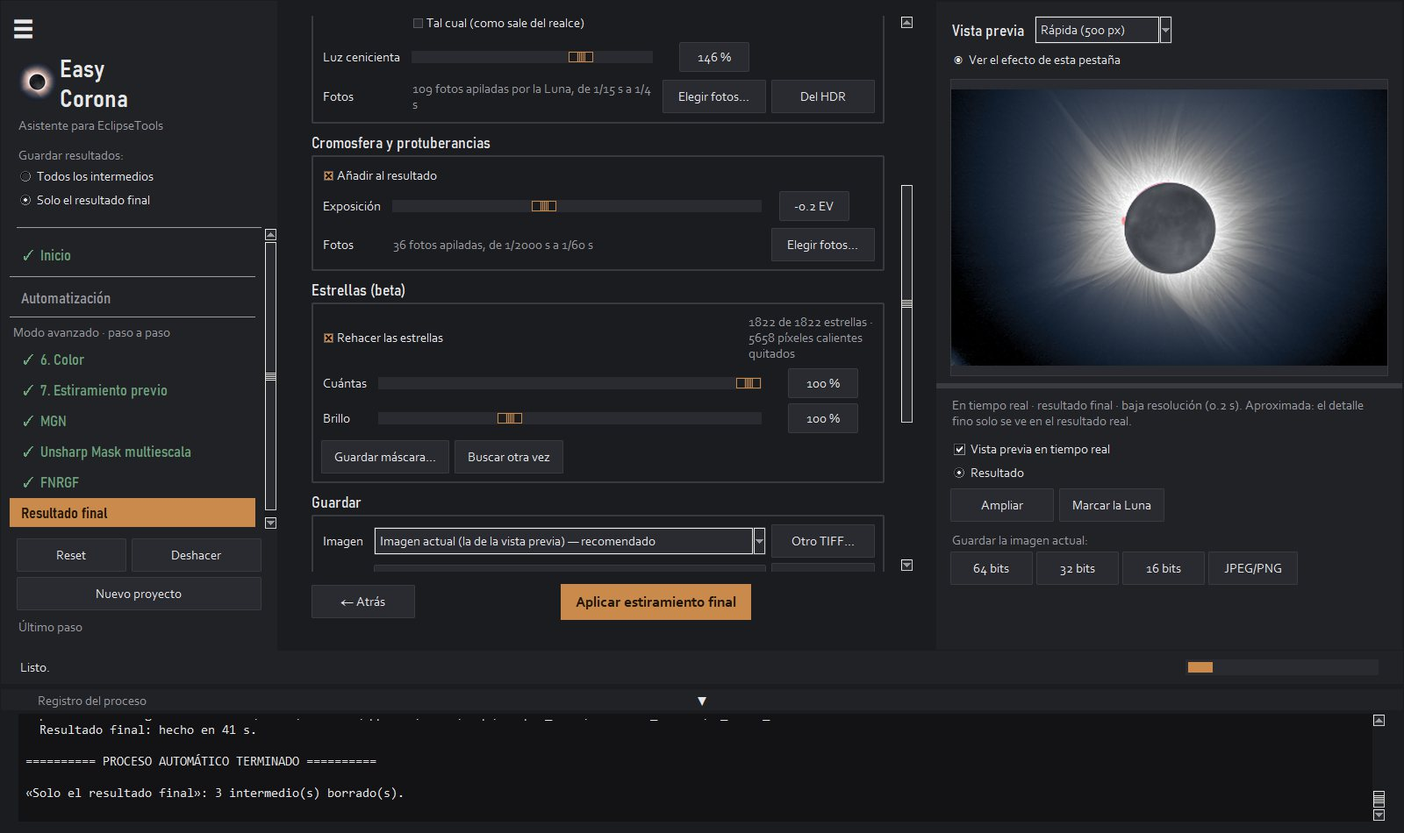
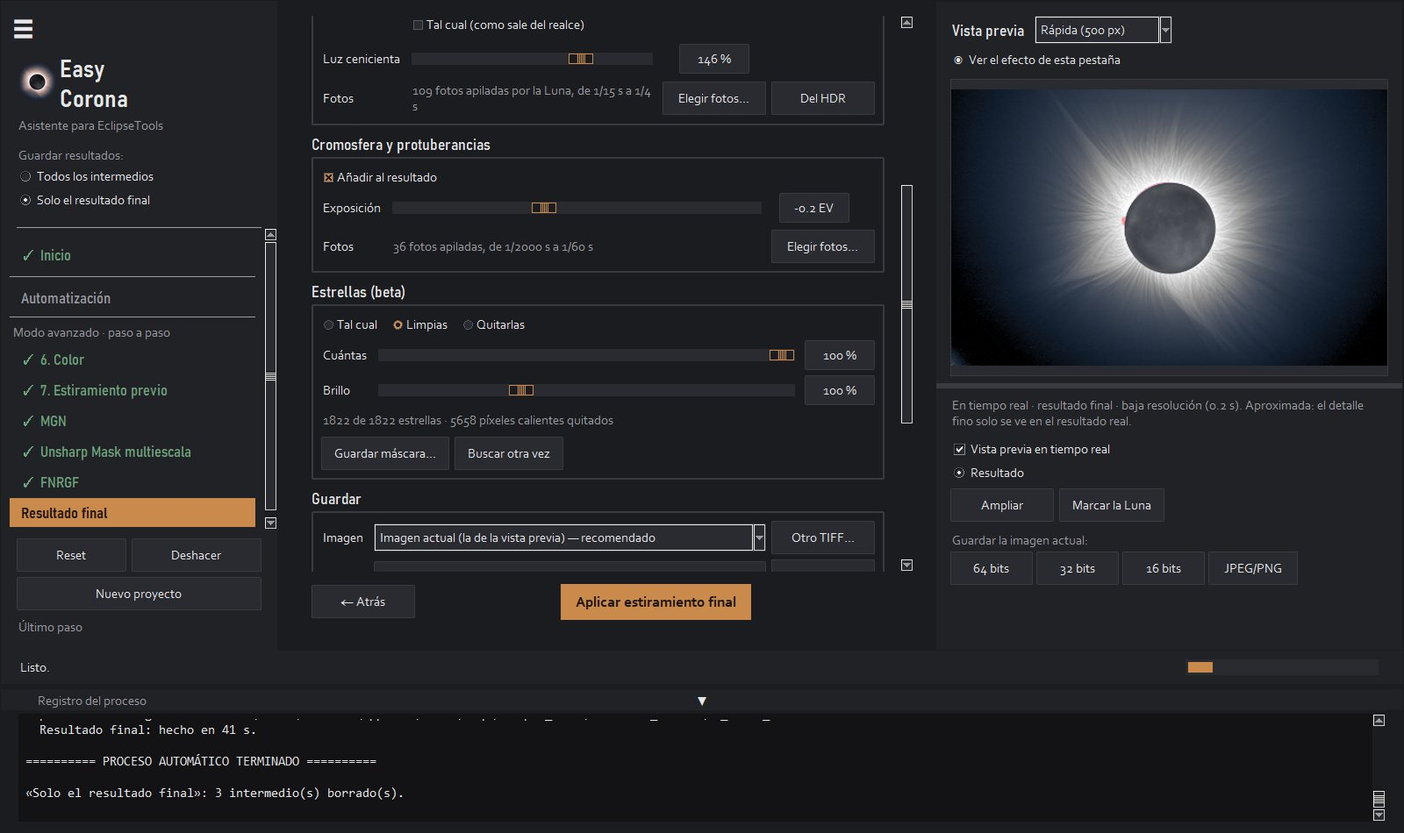
Easy Corona 1.4: quitar las estrellas
- Descargas a la release v1.4 (portada, gracias y actualizar, en español e inglés)
- Novedades de la 1.4 en actualizar/ y en/update/ (las de la 1.3, aparte)
- Tutorial: los tres modos de las estrellas y «Quitar las estrellas», capturas de la 1.4

diff --git a/tutorial/index.html b/tutorial/index.html
@@ -341,7 +341,7 @@
           <li><b>Corona interior</b>: protege la corona junto a la Luna de los filtros (si ahí sale quemado o con puntos oscuros).</li>
           <li><b>Color de la corona</b>: el color real de tu RAW (hace falta un RAW de la sesión junto al HDR); 0 = corona blanca. <b>Cielo azul</b>: el azul de las fotos de eclipse. <b>Cielo más oscuro</b>: el punto negro.</li>
           <li><b>Luna</b>: el gris del disco («tal cual» = como sale del realce). <b>Luz cenicienta</b>: los mares de la Luna. <b>Protuberancias</b>: la exposición de la cromosfera.</li>
-          <li><b>Estrellas</b> <span class="beta">beta</span>: al moverlo, la app busca las estrellas en el HDR, las quita del resultado con el anillo oscuro que les dejan los filtros (y también los píxeles calientes) y las vuelve a poner limpias con ese brillo. <b>Cuántas</b>: de las más brillantes a las más débiles. <span class="ui">Guardar máscara de estrellas…</span> guarda su máscara para otros programas.</li>
+          <li><b>Estrellas</b> <span class="beta">beta</span>: al moverlo, la app busca las estrellas en el HDR, las quita del resultado con el anillo oscuro que les dejan los filtros (y también los píxeles calientes) y las vuelve a poner limpias con ese brillo. <b>Cuántas</b>: de las más brillantes a las más débiles. <span class="ui">Quitar las estrellas</span>: para un cielo limpio, las quita casi todas, también las débiles, sin volver a poner ninguna. <span class="ui">Guardar máscara de estrellas…</span> guarda su máscara para otros programas.</li>
         </ul>
         <p><span class="ui">Ejecutar el proceso</span> hace todo el realce y guarda el resultado. Si después solo cambias algo del resultado final (brillo, cielo, Luna, cromosfera o estrellas), se rehace solo ese paso, en segundos. <span class="ui">Valores recomendados</span> vuelve a los de partida.</p>
       </div>
@@ -395,7 +395,7 @@
           <li><b>Color del cielo</b>: el azul y su tono.</li>
           <li><b>Luna</b>: su gris o «tal cual»; la <b>luz cenicienta</b> y de dónde sale: tus fotos largas (<span class="ui">Elegir fotos…</span>, de cualquier carpeta) o el propio HDR (<span class="ui">Del HDR</span>, solo si de verdad se ven los mares).</li>
           <li><b>Cromosfera y protuberancias</b>: las fotos rápidas se apilan aparte, borrando la Luna de cada una, y se añaden al final, nítidas y con una sola Luna. <span class="ui">Exposición</span> las hace más claras u oscuras.</li>
-          <li><b>Estrellas</b> <span class="beta">beta</span>: <span class="ui">Rehacer las estrellas</span>, <span class="ui">Cuántas</span>, <span class="ui">Brillo</span>, <span class="ui">Guardar máscara…</span> (un TIFF de 16 bits del tamaño del resultado; blanco = estrella con su halo) y <span class="ui">Buscar otra vez</span>. Los píxeles calientes que quedaron en el apilado (puntos rojos o azules) se quitan también.</li>
+          <li><b>Estrellas</b> <span class="beta">beta</span>: tres modos. <span class="ui">Tal cual</span>: como salen del realce. <span class="ui">Limpias</span>: las quita con el anillo oscuro que les dejan los filtros y las vuelve a poner limpias, con <span class="ui">Cuántas</span> y <span class="ui">Brillo</span>. <span class="ui">Quitarlas</span>: un cielo limpio, sin volver a poner ninguna (quita también las débiles y la mayoría de las deformadas; lo que no se distingue de la corona se queda). Además, <span class="ui">Guardar máscara…</span> (un TIFF de 16 bits del tamaño del resultado; blanco = estrella con su halo) y <span class="ui">Buscar otra vez</span>. Los píxeles calientes que quedaron en el apilado (puntos rojos o azules) se quitan también.</li>
           <li><b>Guardar</b>: la imagen de entrada, la carpeta y el nombre; <span class="ui">Exportar PNG/JPEG para compartir</span>.</li>
         </ul>
       </div>
@@ -443,7 +443,7 @@
           <li>Si junto a la Luna sale quemado o con puntos oscuros, sube <b>Corona interior</b>.</li>
           <li>Si la Luna sale mal colocada o con un anillo, usa <span class="ui">Marcar la Luna</span>.</li>
           <li>Para retocar en otro programa, usa el <b>TIFF de 16 bits</b>: el de 32 bits es lineal y muchos programas lo tratan como HDR.</li>
-          <li>Las estrellas son una función en pruebas <span class="beta">beta</span>: revísalas a tamaño real y, si alguna no te convence, baja <b>Cuántas</b>.</li>
+          <li>Las estrellas son una función en pruebas <span class="beta">beta</span>: revísalas a tamaño real y, si alguna no te convence, baja <b>Cuántas</b> o quítalas.</li>
           <li>¿Dudas o un fallo? Escribe a <span class="correo">zu3run@gmail.com</span> con el archivo «registro.txt» de la carpeta EasyCorona de tu usuario.</li>
         </ul>
         <p class="arriba"><a href="#inicio">Volver arriba</a> · <a href="../">Volver a la portada</a></p>

diff --git a/en/tutorial/index.html b/en/tutorial/index.html
@@ -340,7 +340,7 @@
           <li><b>Inner corona</b>: protects the corona next to the Moon from the filters (if it looks burned or with dark dots there).</li>
           <li><b>Corona color</b>: the real color of your RAW (a RAW of the session next to the HDR is needed); 0 = white corona. <b>Blue sky</b>: the blue of eclipse photos. <b>Darker sky</b>: the black point.</li>
           <li><b>Moon</b>: the gray of the disc («as is» = as it comes out of the enhancement). <b>Earthshine</b>: the Moon's maria. <b>Prominences</b>: the exposure of the chromosphere.</li>
-          <li><b>Stars</b> <span class="beta">beta</span>: when you move it, the app finds the stars in the HDR, removes them from the result together with the dark ring the filters leave around them (and the hot pixels too) and puts them back clean with that brightness. <b>How many</b>: from the brightest to the faintest. <span class="ui">Save star mask…</span> saves their mask for other programs.</li>
+          <li><b>Stars</b> <span class="beta">beta</span>: when you move it, the app finds the stars in the HDR, removes them from the result together with the dark ring the filters leave around them (and the hot pixels too) and puts them back clean with that brightness. <b>How many</b>: from the brightest to the faintest. <span class="ui">Remove the stars</span>: for a clean sky, it removes almost all of them, the faint ones too, without putting any back. <span class="ui">Save star mask…</span> saves their mask for other programs.</li>
         </ul>
         <p><span class="ui">Run the process</span> does the whole enhancement and saves the result. If afterwards you only change something of the final result (brightness, sky, Moon, chromosphere or stars), only that step is redone, in seconds. <span class="ui">Recommended values</span> goes back to the starting values.</p>
       </div>
@@ -394,7 +394,7 @@
           <li><b>Sky color</b>: the blue and its hue.</li>
           <li><b>Moon</b>: its gray or «as is»; the <b>earthshine</b> and where it comes from: your long photos (<span class="ui">Choose photos…</span>, from any folder) or the HDR itself (<span class="ui">From the HDR</span>, only if the maria really show).</li>
           <li><b>Chromosphere and prominences</b>: the fast photos are stacked separately, erasing the Moon from each one, and added at the end, sharp and with a single Moon. <span class="ui">Exposure</span> makes them brighter or darker.</li>
-          <li><b>Stars</b> <span class="beta">beta</span>: <span class="ui">Redo the stars</span>, <span class="ui">How many</span>, <span class="ui">Brightness</span>, <span class="ui">Save mask…</span> (a 16-bit TIFF the size of the result; white = star with its halo) and <span class="ui">Search again</span>. The hot pixels left in the stack (red or blue dots) are removed too.</li>
+          <li><b>Stars</b> <span class="beta">beta</span>: three modes. <span class="ui">As is</span>: as they come out of the enhancement. <span class="ui">Clean</span>: removes them with the dark ring the filters leave around them and puts them back clean, with <span class="ui">How many</span> and <span class="ui">Brightness</span>. <span class="ui">Remove them</span>: a clean sky, without putting any back (it also removes the faint ones and most misshapen ones; whatever can't be told apart from the corona stays). Also <span class="ui">Save mask…</span> (a 16-bit TIFF the size of the result; white = star with its halo) and <span class="ui">Search again</span>. The hot pixels left in the stack (red or blue dots) are removed too.</li>
           <li><b>Save</b>: the input image, the folder and the name; <span class="ui">Export PNG/JPEG for sharing</span>.</li>
         </ul>
       </div>
@@ -442,7 +442,7 @@
           <li>If the area next to the Moon looks burned or has dark dots, raise <b>Inner corona</b>.</li>
           <li>If the Moon is misplaced or shows a ring, use <span class="ui">Mark the Moon</span>.</li>
           <li>To retouch in another program, use the <b>16-bit TIFF</b>: the 32-bit one is linear and many programs treat it as HDR.</li>
-          <li>Stars are a feature in testing <span class="beta">beta</span>: check them at full size and, if some don't convince you, lower <b>How many</b>.</li>
+          <li>Stars are a feature in testing <span class="beta">beta</span>: check them at full size and, if some don't convince you, lower <b>How many</b> or remove them.</li>
           <li>Questions or a bug? Write to <span class="correo">zu3run@gmail.com</span> with the «registro.txt» file from the EasyCorona folder of your user account.</li>
         </ul>
         <p class="arriba"><a href="#inicio">Back to top</a> · <a href="../">Back to the home page</a></p>

diff --git a/actualizar/index.html b/actualizar/index.html
@@ -3,7 +3,7 @@
 <head>
 <meta charset="utf-8">
 <meta name="viewport" content="width=device-width, initial-scale=1, viewport-fit=cover">
-<title>Easy Corona 1.3 · Actualización</title>
+<title>Easy Corona 1.4 · Actualización</title>
 <link rel="icon" type="image/png" href="../img/icono.png">
 <link rel="alternate" hreflang="es" href="https://zu2pic.github.io/actualizar/">
 <link rel="alternate" hreflang="en" href="https://zu2pic.github.io/en/update/">
@@ -201,12 +201,20 @@
   <a class="volver" href="../index.html">← Easy Corona</a>
   <div style="display:grid;gap:12px">
     <p class="etiqueta">Actualización gratuita</p>
-    <h1>Easy Corona 1.3</h1>
+    <h1>Easy Corona 1.4</h1>
     <p class="gris">Se instala encima de la versión anterior y conserva tu licencia, tus presets y tus proyectos.</p>
   </div>
 
   <section style="display:grid;gap:14px">
     <h2>Novedades</h2>
+    <ul class="novedades gris">
+      <li><b>Quitar las estrellas (beta).</b> Para un cielo limpio: la app quita casi todas las estrellas (también las débiles y la mayoría de las deformadas) y los píxeles calientes, sin volver a poner ninguna. Lo que no se distingue de la corona se queda. En el modo sencillo es la casilla «Quitar las estrellas»; en «Resultado final», el modo «Quitarlas» (junto a «Tal cual» y «Limpias»).</li>
+      <li><b>Mejor relleno donde estaban las estrellas.</b> Sigue los bordes de la corona y copia solo el grano del cielo de al lado: ya no quedan bandas, muescas ni restos del anillo oscuro de las estrellas brillantes. También con «Limpias», y más rápido (la vista previa, en segundo y medio).</li>
+    </ul>
+  </section>
+
+  <section style="display:grid;gap:14px">
+    <h2>Si vienes de una versión anterior a la 1.3</h2>
     <ul class="novedades gris">
       <li><b>Estrellas limpias (beta).</b> La app encuentra las estrellas en el HDR, les quita el anillo oscuro que dejan los filtros y las vuelve a poner con el brillo y la cantidad que elijas; también quita los píxeles calientes. En el modo sencillo («Estrellas» y «Cuántas») y en «Resultado final», con su máscara para otros programas.</li>
       <li><b>También en inglés.</b> La app se abre en el idioma de tu ordenador y se cambia en <b>Ver → Idioma · Language</b>. La web, el contrato y el instalador también están en inglés.</li>
@@ -216,7 +224,7 @@
 
   <ol class="pasos">
     <li><div>
-      <h2>Descarga la versión 1.3</h2>
+      <h2>Descarga la versión 1.4</h2>
       <div class="botones">
         <a class="boton" href="#" data-enlace="windows">Descargar para Windows <small>10 y 11</small></a>
         <a class="boton" href="#" data-enlace="mac_apple">Mac con chip Apple <small>M1 o posterior</small></a>
@@ -231,7 +239,7 @@
     </div></li>
     <li><div>
       <h2>Ábrela</h2>
-      <p class="gris">Arriba verás «Easy Corona 1.3» y tu versión. Si saliera la gratuita, ve a <b>Licencia → Activar licencia…</b> y pega otra vez la clave que te llegó por correo. Cualquier problema: <span class="correo">zu3run@gmail.com</span>.</p>
+      <p class="gris">Arriba verás «Easy Corona 1.4» y tu versión. Si saliera la gratuita, ve a <b>Licencia → Activar licencia…</b> y pega otra vez la clave que te llegó por correo. Cualquier problema: <span class="correo">zu3run@gmail.com</span>.</p>
     </div></li>
   </ol>
 </main>
@@ -239,9 +247,9 @@
 <script>
   // Los mismos enlaces de descarga que en la portada.
   const ENLACES = {
-    windows: "https://github.com/zu2pic/zu2pic.github.io/releases/download/v1.3/EasyCorona_Instalador_1.3.exe",
-    mac_apple: "https://github.com/zu2pic/zu2pic.github.io/releases/download/v1.3/EasyCorona_1.3_mac_arm64.dmg",
-    mac_intel: "https://github.com/zu2pic/zu2pic.github.io/releases/download/v1.3/EasyCorona_1.3_mac_x86_64.dmg",
+    windows: "https://github.com/zu2pic/zu2pic.github.io/releases/download/v1.4/EasyCorona_Instalador_1.4.exe",
+    mac_apple: "https://github.com/zu2pic/zu2pic.github.io/releases/download/v1.4/EasyCorona_1.4_mac_arm64.dmg",
+    mac_intel: "https://github.com/zu2pic/zu2pic.github.io/releases/download/v1.4/EasyCorona_1.4_mac_x86_64.dmg",
   };
   document.querySelectorAll("[data-enlace]").forEach((a) => { a.href = ENLACES[a.dataset.enlace]; });
 </script>

diff --git a/en/update/index.html b/en/update/index.html
@@ -3,7 +3,7 @@
 <head>
 <meta charset="utf-8">
 <meta name="viewport" content="width=device-width, initial-scale=1, viewport-fit=cover">
-<title>Easy Corona 1.3 · Update</title>
+<title>Easy Corona 1.4 · Update</title>
 <link rel="icon" type="image/png" href="../../img/icono.png">
 <link rel="alternate" hreflang="es" href="https://zu2pic.github.io/actualizar/">
 <link rel="alternate" hreflang="en" href="https://zu2pic.github.io/en/update/">
@@ -194,12 +194,20 @@
   <a class="volver" href="../index.html">← Easy Corona</a>
   <div style="display:grid;gap:12px">
     <p class="etiqueta">Free update</p>
-    <h1>Easy Corona 1.3</h1>
+    <h1>Easy Corona 1.4</h1>
     <p class="gris">It installs over the previous version and keeps your license, your presets and your projects.</p>
   </div>
 
   <section style="display:grid;gap:14px">
     <h2>What's new</h2>
+    <ul class="novedades gris">
+      <li><b>Remove the stars (beta).</b> For a clean sky: the app removes almost all the stars (the faint ones and most misshapen ones too) and the hot pixels, without putting any back. Whatever can't be told apart from the corona stays. In Simple mode it's the «Remove the stars» checkbox; in «Final result», the «Remove them» mode (next to «As is» and «Clean»).</li>
+      <li><b>Better fill where the stars were.</b> It follows the edges of the corona and copies only the grain of the nearby sky: no more bands, notches or leftovers of the dark ring around bright stars. With «Clean» too, and faster (the preview, in a second and a half).</li>
+    </ul>
+  </section>
+
+  <section style="display:grid;gap:14px">
+    <h2>If you're coming from a version before 1.3</h2>
     <ul class="novedades gris">
       <li><b>Clean stars (beta).</b> The app finds the stars in the HDR, removes the dark ring the filters leave around them and puts them back with the brightness and the number you choose; it also removes hot pixels. In Simple mode («Stars» and «How many») and in «Final result», with their mask for other programs.</li>
       <li><b>Now in English too.</b> The app opens in the language of your computer and can be changed in <b>View → Idioma · Language</b>. The website, the license agreement and the installer are in English too.</li>
@@ -209,7 +217,7 @@
 
   <ol class="pasos">
     <li><div>
-      <h2>Download version 1.3</h2>
+      <h2>Download version 1.4</h2>
       <div class="botones">
         <a class="boton" href="#" data-enlace="windows">Download for Windows <small>10 and 11</small></a>
         <a class="boton" href="#" data-enlace="mac_apple">Mac with Apple silicon <small>M1 or later</small></a>
@@ -224,7 +232,7 @@
     </div></li>
     <li><div>
       <h2>Open it</h2>
-      <p class="gris">At the top you'll see “Easy Corona 1.3” and your version. If the free version showed up, go to <b>License → Activate license…</b> and paste again the key you received by email. Any problem: <span class="correo">zu3run@gmail.com</span>.</p>
+      <p class="gris">At the top you'll see “Easy Corona 1.4” and your version. If the free version showed up, go to <b>License → Activate license…</b> and paste again the key you received by email. Any problem: <span class="correo">zu3run@gmail.com</span>.</p>
     </div></li>
   </ol>
 </main>
@@ -232,9 +240,9 @@
 <script>
   // The same download links as on the home page.
   const ENLACES = {
-    windows: "https://github.com/zu2pic/zu2pic.github.io/releases/download/v1.3/EasyCorona_Instalador_1.3.exe",
-    mac_apple: "https://github.com/zu2pic/zu2pic.github.io/releases/download/v1.3/EasyCorona_1.3_mac_arm64.dmg",
-    mac_intel: "https://github.com/zu2pic/zu2pic.github.io/releases/download/v1.3/EasyCorona_1.3_mac_x86_64.dmg",
+    windows: "https://github.com/zu2pic/zu2pic.github.io/releases/download/v1.4/EasyCorona_Instalador_1.4.exe",
+    mac_apple: "https://github.com/zu2pic/zu2pic.github.io/releases/download/v1.4/EasyCorona_1.4_mac_arm64.dmg",
+    mac_intel: "https://github.com/zu2pic/zu2pic.github.io/releases/download/v1.4/EasyCorona_1.4_mac_x86_64.dmg",
   };
   document.querySelectorAll("[data-enlace]").forEach((a) => { a.href = ENLACES[a.dataset.enlace]; });
 </script>

diff --git a/index.html b/index.html
@@ -410,7 +410,7 @@
           <a class="boton boton-principal" href="#mac">Descargar gratis <small>Mac</small></a>
           <a class="boton boton-secundario" href="#antes">Ver el antes y después</a>
         </div>
-        <p class="portada-datos">Windows 10 y 11 · macOS 15 o posterior · en español e inglés · versión 1.3</p>
+        <p class="portada-datos">Windows 10 y 11 · macOS 15 o posterior · en español e inglés · versión 1.4</p>
       </div>
     </div>
     <p class="credito">Foto: Iker Zubizarreta</p>
@@ -479,7 +479,7 @@
         <div class="rasgo"><p class="etiqueta">Color</p><div><h3>Cielo de eclipse y Luna gris</h3><p>El azul del cielo durante la totalidad, medido, y la Luna en un gris uniforme.</p></div></div>
         <div class="rasgo"><p class="etiqueta">Cromosfera</p><div><h3>Protuberancias nítidas, una sola Luna</h3><p>Las fotos más rápidas se apilan aparte y se añaden al final, sin fantasmas en el borde de la Luna.</p></div></div>
         <div class="rasgo"><p class="etiqueta">Luna</p><div><h3>Luz cenicienta</h3><p>Los mares de la Luna, iluminados por la Tierra, con tus fotos largas o del propio HDR.</p></div></div>
-        <div class="rasgo"><p class="etiqueta">Beta</p><div><h3>Estrellas limpias</h3><p>Encuentra las estrellas, les quita el anillo oscuro que dejan los filtros (y los píxeles calientes) y las vuelve a poner con el brillo y la cantidad que elijas. Con su máscara, para otros programas.</p></div></div>
+        <div class="rasgo"><p class="etiqueta">Beta</p><div><h3>Estrellas limpias</h3><p>Encuentra las estrellas, les quita el anillo oscuro que dejan los filtros (y los píxeles calientes) y las vuelve a poner con el brillo y la cantidad que elijas, o las quita para un cielo limpio. Con su máscara, para otros programas.</p></div></div>
         <div class="rasgo"><p class="etiqueta">Beta</p><div><h3>Dos focales en una imagen</h3><p>Junta las fotos de dos objetivos: el detalle del largo con el campo del corto.</p></div></div>
         <div class="rasgo"><p class="etiqueta">Cámaras</p><div><h3>Tus RAW, tal cual</h3><p>Canon, Nikon, Sony, Fujifilm, Panasonic, Olympus, Pentax y DNG. También darks, bias y flats.</p></div></div>
         <div class="rasgo"><p class="etiqueta">Vista previa</p><div><h3>Lo que ves es lo que se guarda</h3><p>Cada deslizador se ve al momento, con el mismo cálculo que el resultado final.</p></div></div>
@@ -654,9 +654,9 @@
   // Enlaces de la tienda y de la descarga: se rellenan cuando existan.
   // Mientras estén vacíos, los botones avisan en vez de llevar a ninguna parte.
   const ENLACES = {
-    windows: "https://github.com/zu2pic/zu2pic.github.io/releases/download/v1.3/EasyCorona_Instalador_1.3.exe",
-    mac_apple: "https://github.com/zu2pic/zu2pic.github.io/releases/download/v1.3/EasyCorona_1.3_mac_arm64.dmg",
-    mac_intel: "https://github.com/zu2pic/zu2pic.github.io/releases/download/v1.3/EasyCorona_1.3_mac_x86_64.dmg",
+    windows: "https://github.com/zu2pic/zu2pic.github.io/releases/download/v1.4/EasyCorona_Instalador_1.4.exe",
+    mac_apple: "https://github.com/zu2pic/zu2pic.github.io/releases/download/v1.4/EasyCorona_1.4_mac_arm64.dmg",
+    mac_intel: "https://github.com/zu2pic/zu2pic.github.io/releases/download/v1.4/EasyCorona_1.4_mac_x86_64.dmg",
     premium: "https://buy.stripe.com/8x2eVe9Q7eXH8QddbUbo401",
     premium_plus: "https://buy.stripe.com/14AcN63rJeXH0jH0p8bo402",
   };

diff --git a/en/index.html b/en/index.html
@@ -410,7 +410,7 @@
           <a class="boton boton-principal" href="#mac">Free download <small>Mac</small></a>
           <a class="boton boton-secundario" href="#antes">See the before and after</a>
         </div>
-        <p class="portada-datos">Windows 10 and 11 · macOS 15 or later · in English and Spanish · version 1.3</p>
+        <p class="portada-datos">Windows 10 and 11 · macOS 15 or later · in English and Spanish · version 1.4</p>
       </div>
     </div>
     <p class="credito">Photo: Iker Zubizarreta</p>
@@ -479,7 +479,7 @@
         <div class="rasgo"><p class="etiqueta">Color</p><div><h3>Eclipse sky and gray Moon</h3><p>The measured blue of the sky during totality, and the Moon in a uniform gray.</p></div></div>
         <div class="rasgo"><p class="etiqueta">Chromosphere</p><div><h3>Sharp prominences, a single Moon</h3><p>The fastest photos are stacked separately and added at the end, with no ghosts on the Moon's edge.</p></div></div>
         <div class="rasgo"><p class="etiqueta">Moon</p><div><h3>Earthshine</h3><p>The lunar maria, lit by the Earth, from your long photos or from the HDR itself.</p></div></div>
-        <div class="rasgo"><p class="etiqueta">Beta</p><div><h3>Clean stars</h3><p>Finds the stars, removes the dark ring the filters leave around them (and the hot pixels) and puts them back with the brightness and the number you choose. With their mask, for other programs.</p></div></div>
+        <div class="rasgo"><p class="etiqueta">Beta</p><div><h3>Clean stars</h3><p>Finds the stars, removes the dark ring the filters leave around them (and the hot pixels) and puts them back with the brightness and the number you choose, or removes them for a clean sky. With their mask, for other programs.</p></div></div>
         <div class="rasgo"><p class="etiqueta">Beta</p><div><h3>Two focal lengths in one image</h3><p>Merges the photos from two lenses: the detail of the long one with the field of the short one.</p></div></div>
         <div class="rasgo"><p class="etiqueta">Cameras</p><div><h3>Your RAW files, as they are</h3><p>Canon, Nikon, Sony, Fujifilm, Panasonic, Olympus, Pentax and DNG. Darks, bias and flats too.</p></div></div>
         <div class="rasgo"><p class="etiqueta">Preview</p><div><h3>What you see is what gets saved</h3><p>Every slider shows up instantly, with the same calculation as the final result.</p></div></div>
@@ -657,9 +657,9 @@
 <script>
   // Store and download links (the same as on the Spanish page).
   const ENLACES = {
-    windows: "https://github.com/zu2pic/zu2pic.github.io/releases/download/v1.3/EasyCorona_Instalador_1.3.exe",
-    mac_apple: "https://github.com/zu2pic/zu2pic.github.io/releases/download/v1.3/EasyCorona_1.3_mac_arm64.dmg",
-    mac_intel: "https://github.com/zu2pic/zu2pic.github.io/releases/download/v1.3/EasyCorona_1.3_mac_x86_64.dmg",
+    windows: "https://github.com/zu2pic/zu2pic.github.io/releases/download/v1.4/EasyCorona_Instalador_1.4.exe",
+    mac_apple: "https://github.com/zu2pic/zu2pic.github.io/releases/download/v1.4/EasyCorona_1.4_mac_arm64.dmg",
+    mac_intel: "https://github.com/zu2pic/zu2pic.github.io/releases/download/v1.4/EasyCorona_1.4_mac_x86_64.dmg",
     premium: "https://buy.stripe.com/8x2eVe9Q7eXH8QddbUbo401?locale=en&client_reference_id=en",
     premium_plus: "https://buy.stripe.com/14AcN63rJeXH0jH0p8bo402?locale=en&client_reference_id=en",
   };

diff --git a/gracias/index.html b/gracias/index.html
@@ -230,9 +230,9 @@
 <script>
   // Los mismos enlaces de descarga que en la portada.
   const ENLACES = {
-    windows: "https://github.com/zu2pic/zu2pic.github.io/releases/download/v1.3/EasyCorona_Instalador_1.3.exe",
-    mac_apple: "https://github.com/zu2pic/zu2pic.github.io/releases/download/v1.3/EasyCorona_1.3_mac_arm64.dmg",
-    mac_intel: "https://github.com/zu2pic/zu2pic.github.io/releases/download/v1.3/EasyCorona_1.3_mac_x86_64.dmg",
+    windows: "https://github.com/zu2pic/zu2pic.github.io/releases/download/v1.4/EasyCorona_Instalador_1.4.exe",
+    mac_apple: "https://github.com/zu2pic/zu2pic.github.io/releases/download/v1.4/EasyCorona_1.4_mac_arm64.dmg",
+    mac_intel: "https://github.com/zu2pic/zu2pic.github.io/releases/download/v1.4/EasyCorona_1.4_mac_x86_64.dmg",
   };
   document.querySelectorAll("[data-enlace]").forEach((a) => { a.href = ENLACES[a.dataset.enlace]; });
 </script>

diff --git a/en/thanks/index.html b/en/thanks/index.html
@@ -222,9 +222,9 @@
 <script>
   // The same download links as on the home page.
   const ENLACES = {
-    windows: "https://github.com/zu2pic/zu2pic.github.io/releases/download/v1.3/EasyCorona_Instalador_1.3.exe",
-    mac_apple: "https://github.com/zu2pic/zu2pic.github.io/releases/download/v1.3/EasyCorona_1.3_mac_arm64.dmg",
-    mac_intel: "https://github.com/zu2pic/zu2pic.github.io/releases/download/v1.3/EasyCorona_1.3_mac_x86_64.dmg",
+    windows: "https://github.com/zu2pic/zu2pic.github.io/releases/download/v1.4/EasyCorona_Instalador_1.4.exe",
+    mac_apple: "https://github.com/zu2pic/zu2pic.github.io/releases/download/v1.4/EasyCorona_1.4_mac_arm64.dmg",
+    mac_intel: "https://github.com/zu2pic/zu2pic.github.io/releases/download/v1.4/EasyCorona_1.4_mac_x86_64.dmg",
   };
   document.querySelectorAll("[data-enlace]").forEach((a) => { a.href = ENLACES[a.dataset.enlace]; });
 </script>
